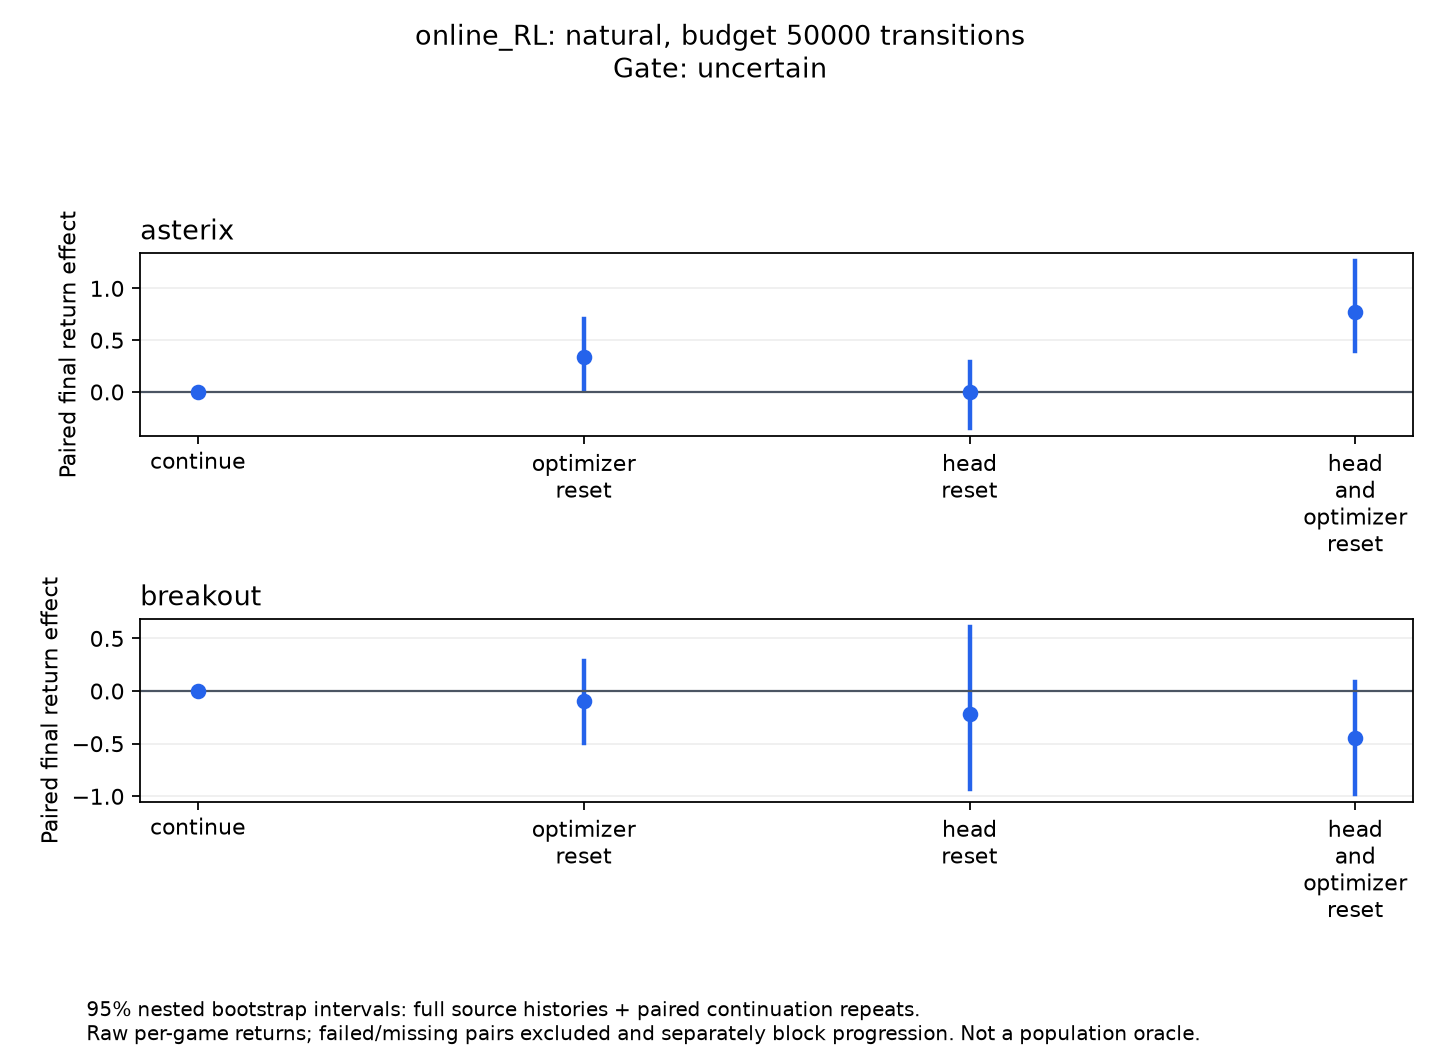
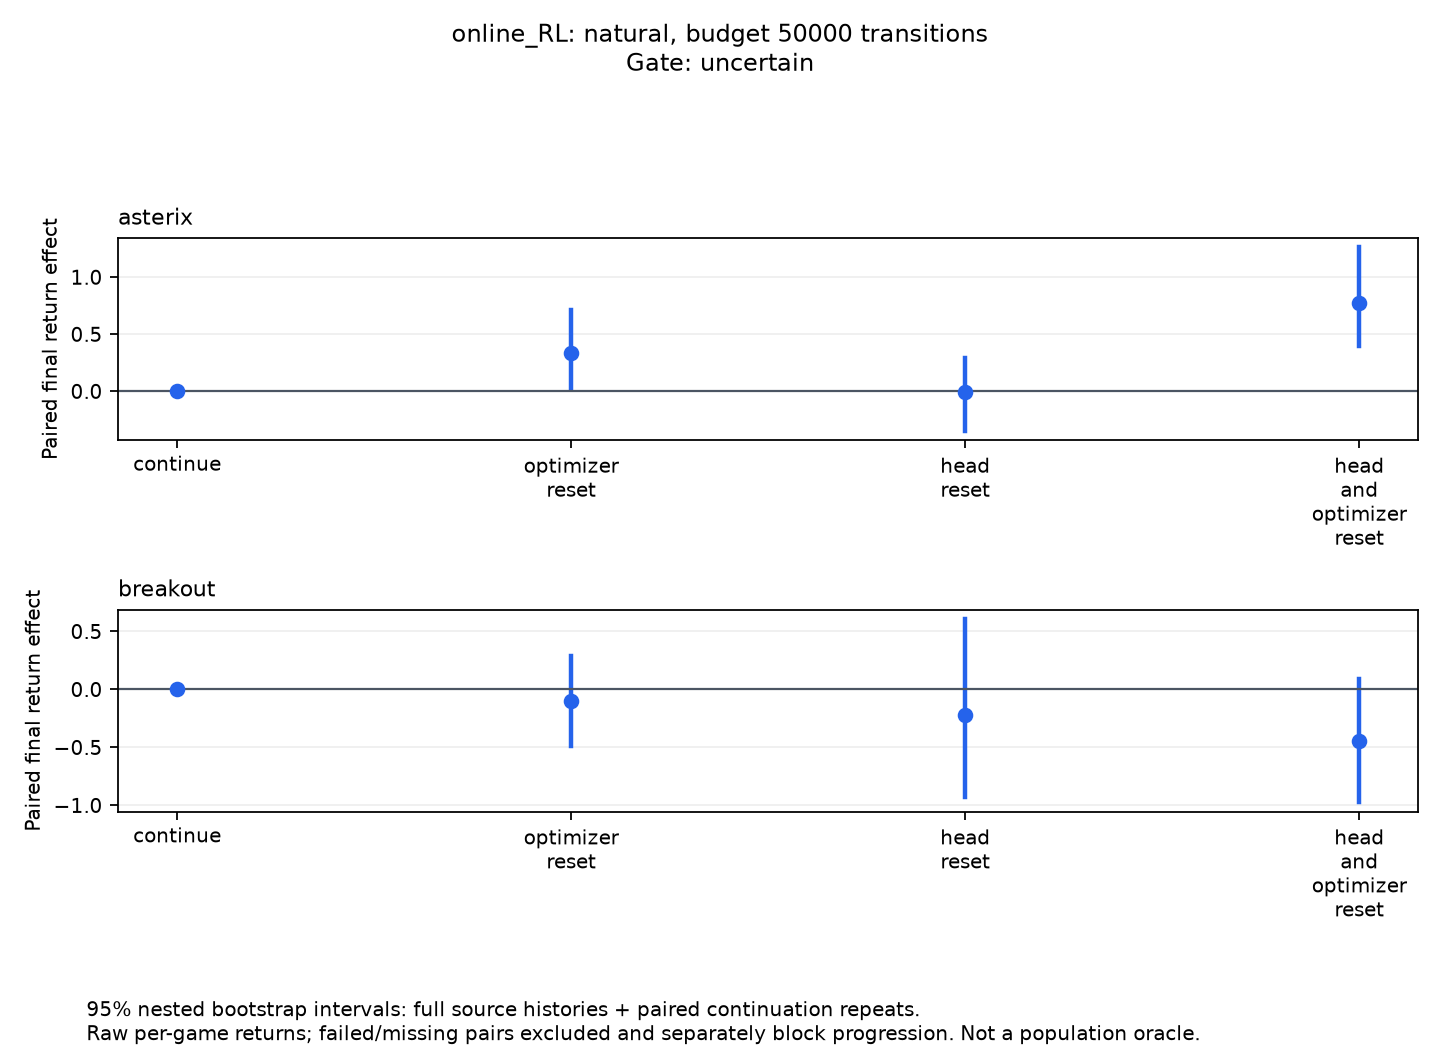
Research: fixed_TD_mechanisms

diff --git a/research/results/minatar-repair-20261007/REPORT.md b/research/results/minatar-repair-20261007/REPORT.md
@@ -2,7 +2,7 @@
 
 Это живой отчёт: завершённые запуски отделены от запланированных. Минимум для вывода — независимые истории обучения и continuation repeats.
 
-Обновление: 2026-10-11 12:49:12; серия: first_online_screen_96_branches.
+Обновление: 2026-10-11 12:49:40; серия: fixed_TD_mechanisms.
 Checkpoints: 12. Завершённые ветки: {'screen': 96, 'confirm': 48, 'stress': 0, 'parameters': 0, 'lr_control': 0}.
 Текущий пакет: 1; optimizer updates: 7,561,975.
 
